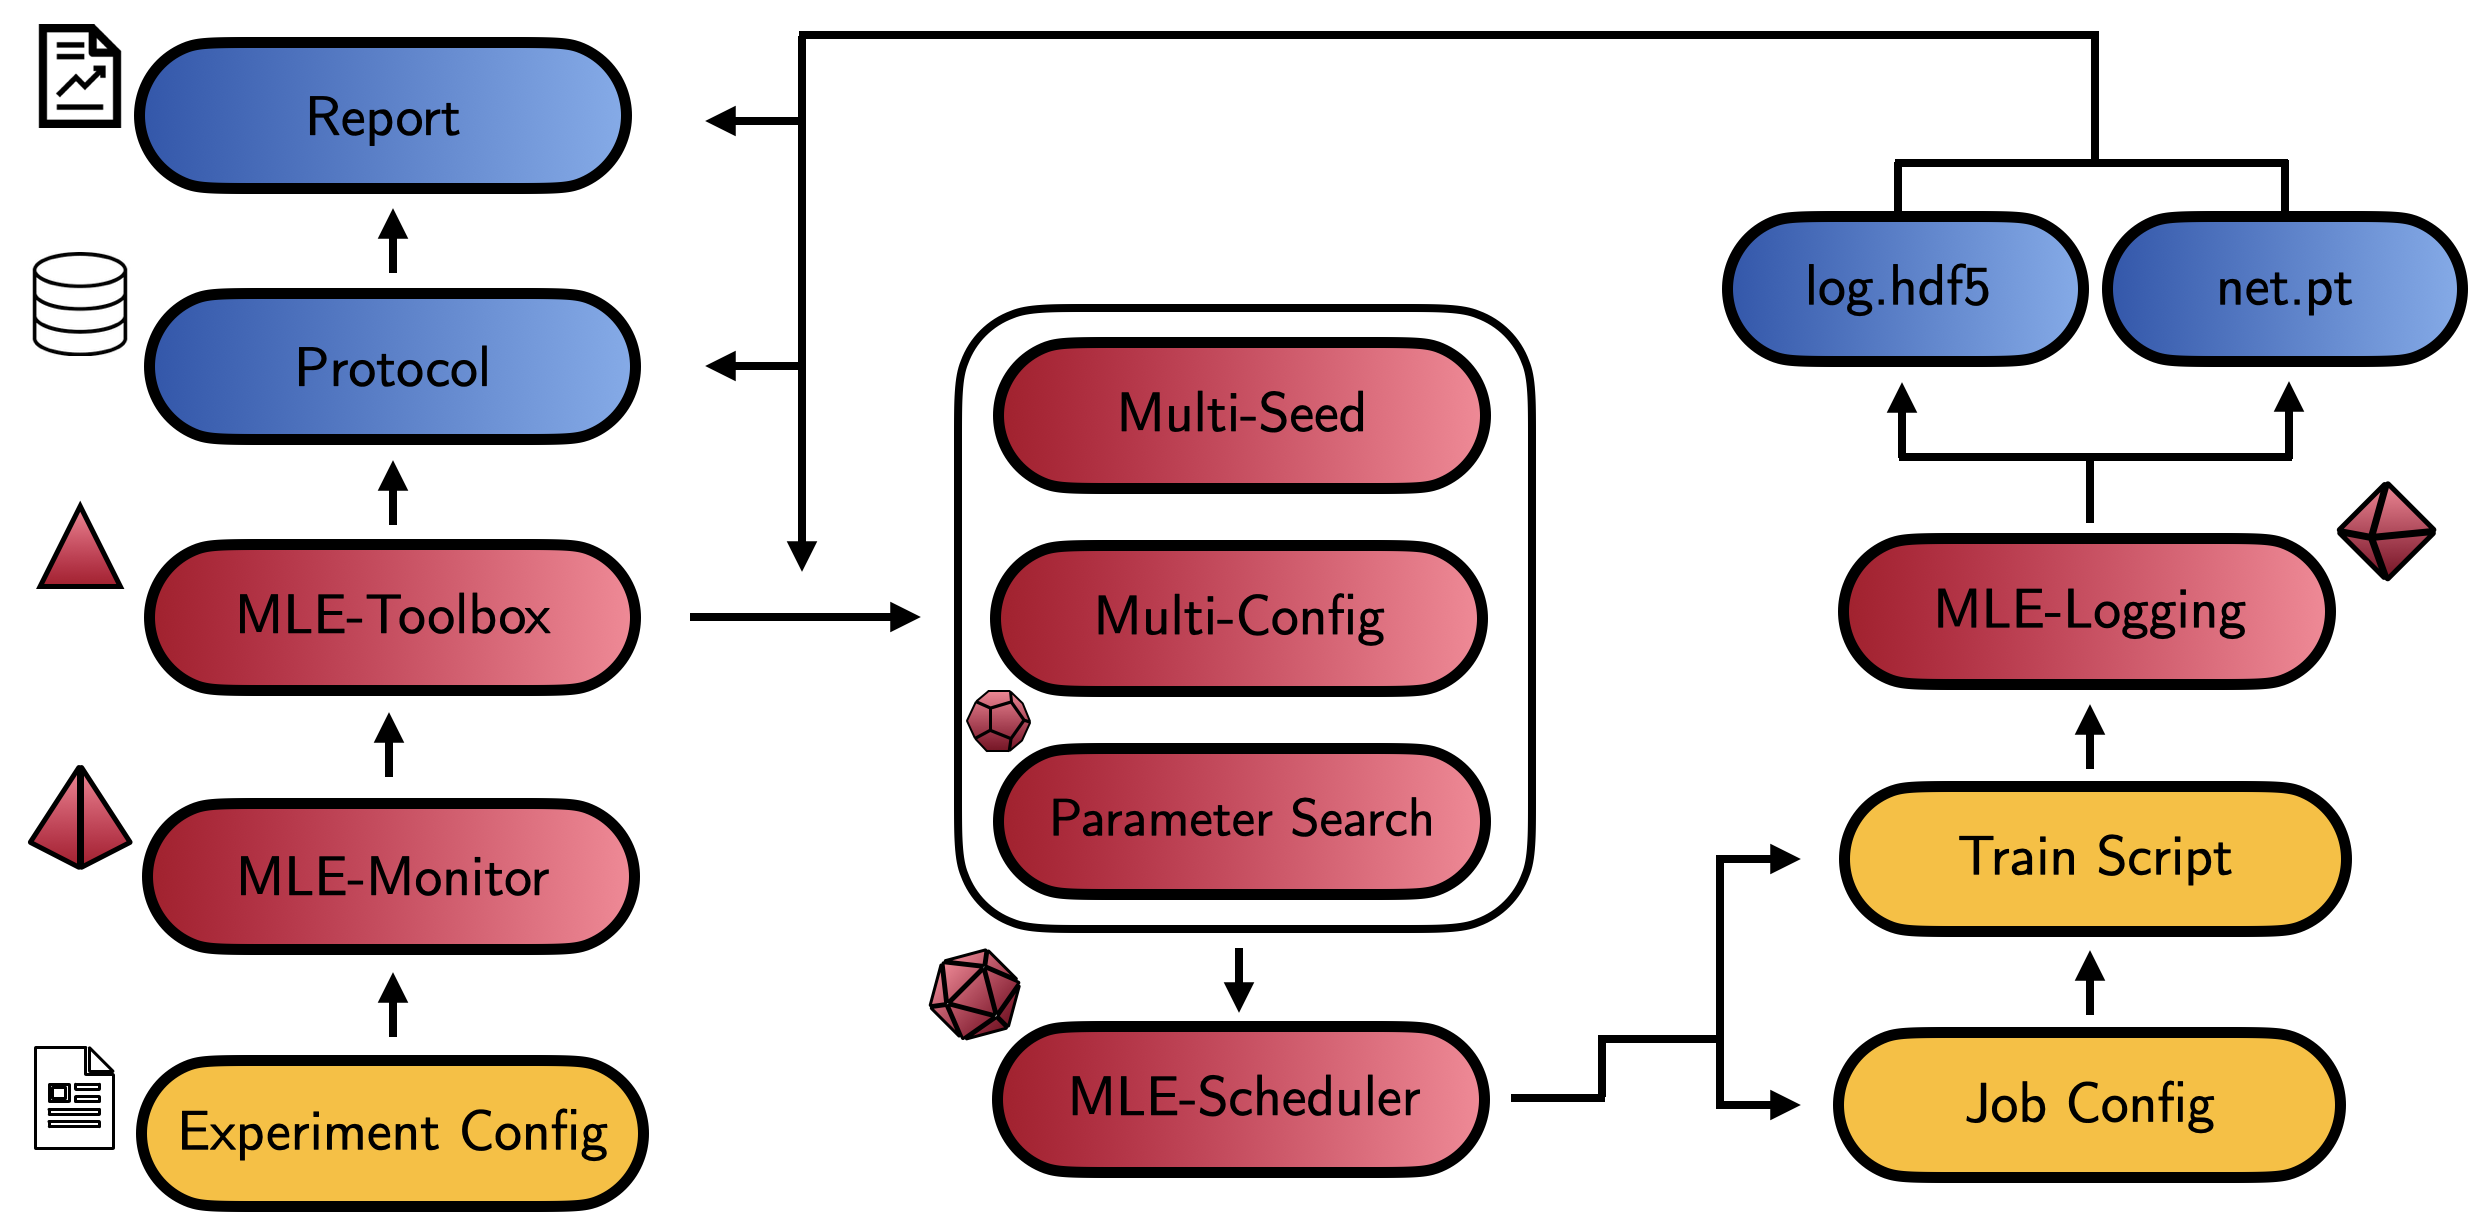
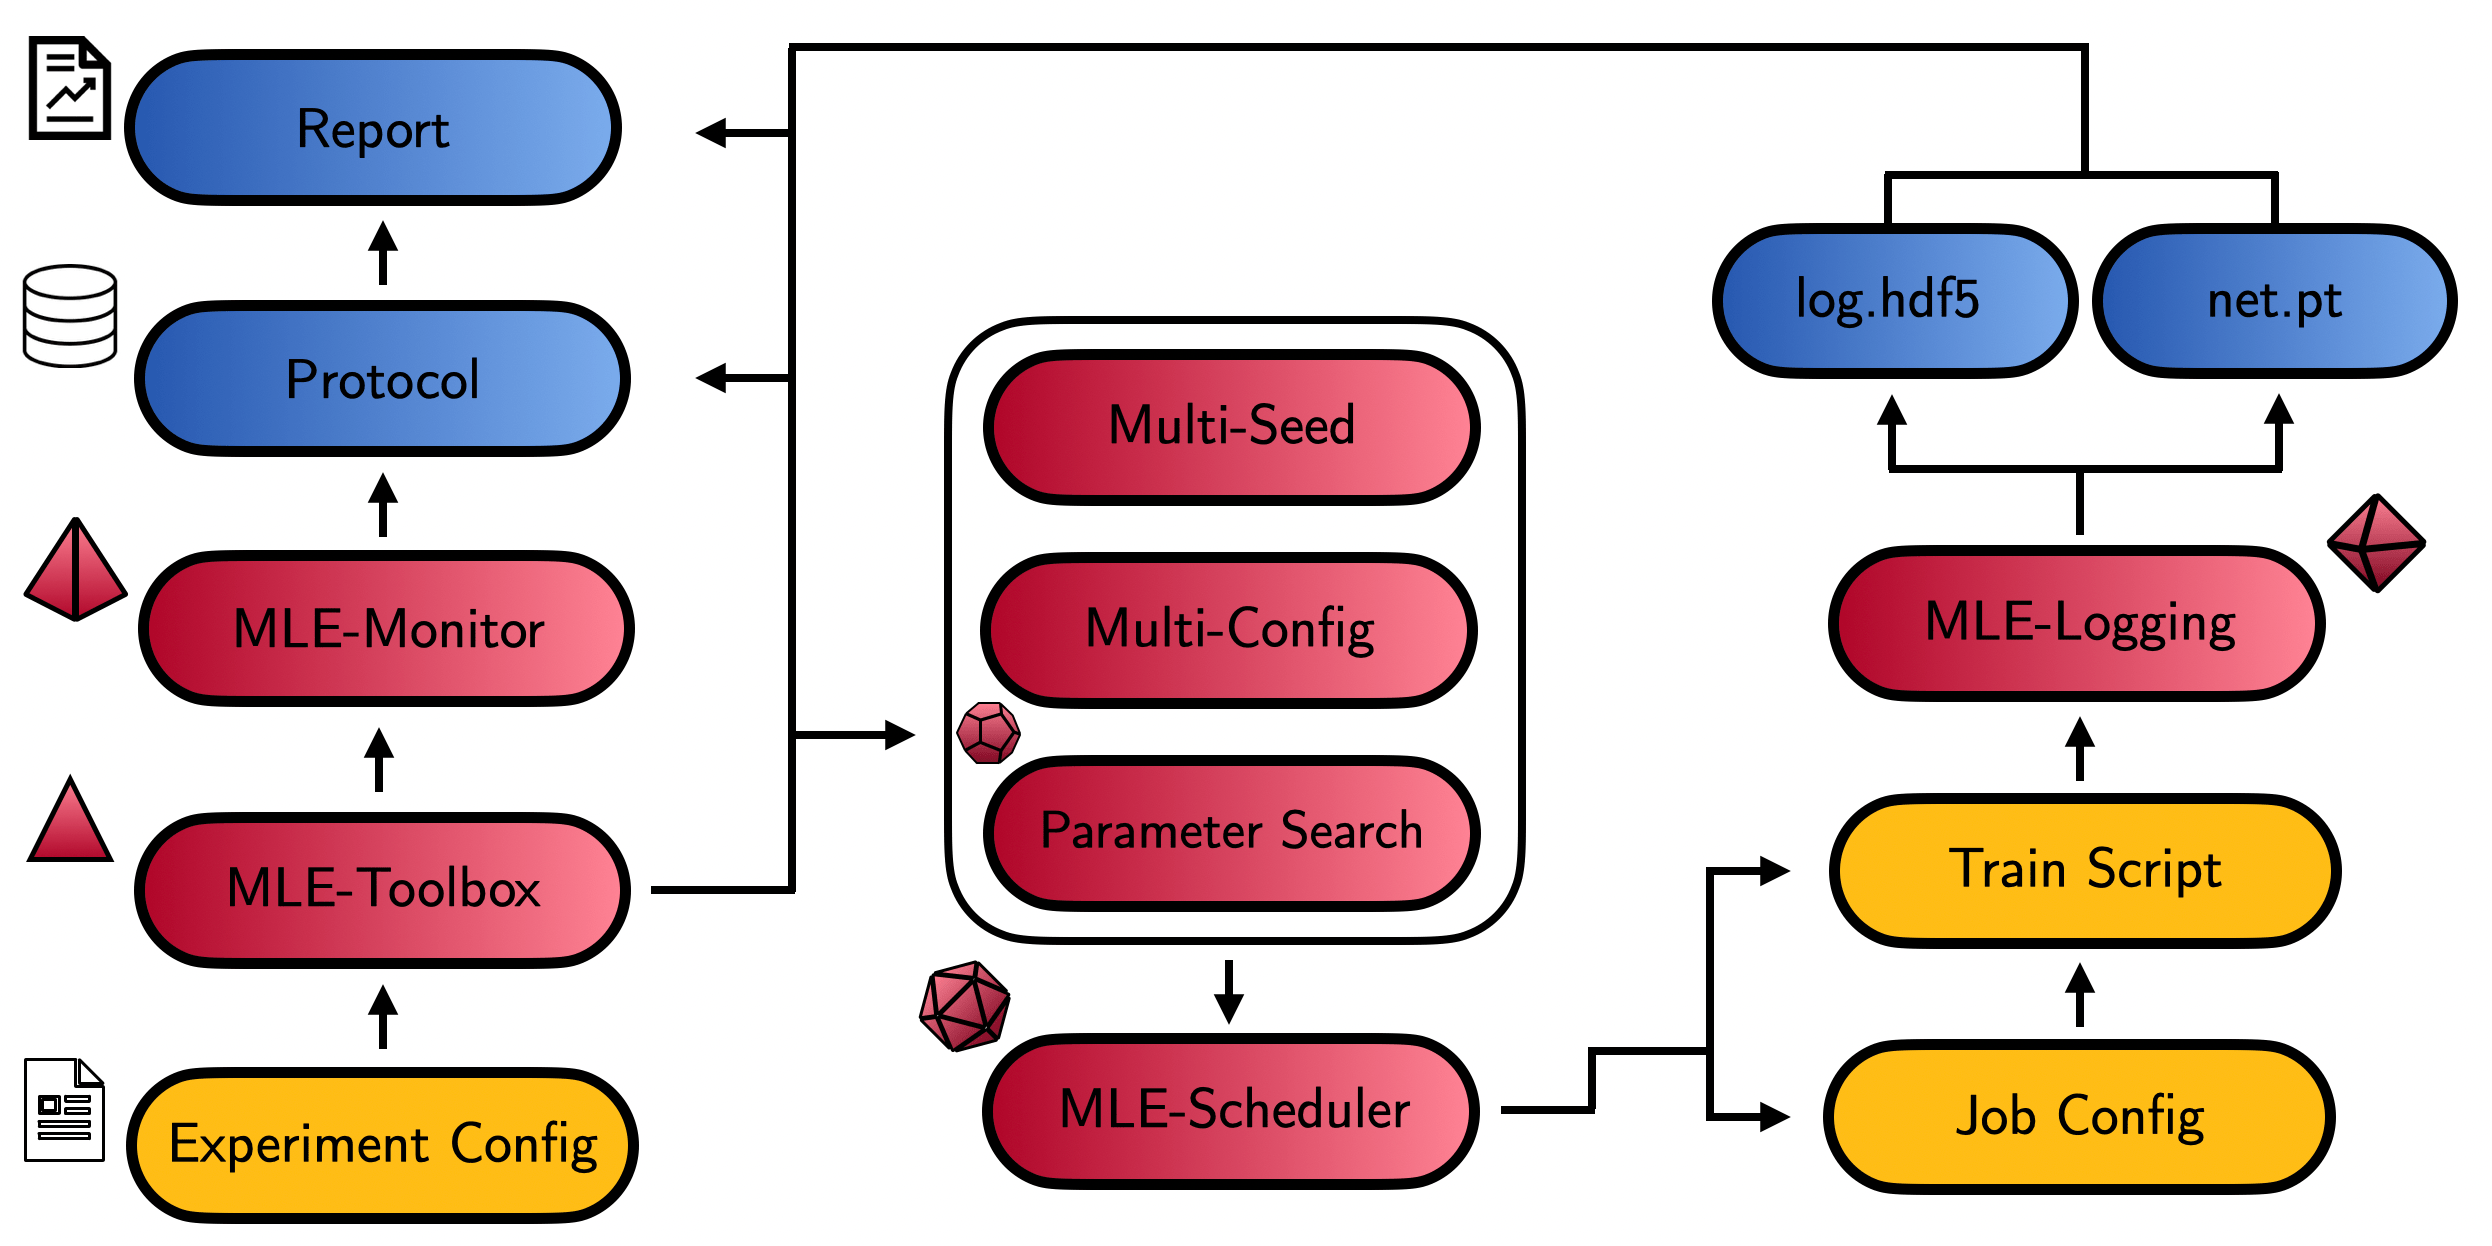
Add gif & minor updates

diff --git a/mle_toolbox/utils/core_experiment.py b/mle_toolbox/utils/core_experiment.py
@@ -2,13 +2,12 @@ import os
 import argparse
 import random
 import numpy as np
-import platform
-import re
 import sys
 import select
 from typing import Union, Tuple
 from dotmap import DotMap
 from datetime import datetime
+import subprocess as sp
 from mle_logging import load_config
 from .core_files_load import load_mle_toolbox_config
 from .helpers import print_framed
@@ -332,23 +331,18 @@ def ask_for_binary_input(question: str, default_answer: str = "N"):
 
 
 def determine_resource() -> str:
-    """Check if cluster (sge/slurm) is available."""
-    # TODO: Try running qstat or squeue commands - if one succeeds we know where we are
-    hostname = platform.node()
-    on_sge_cluster = any(
-        re.match(line, hostname) for line in mle_config.sge.info.node_reg_exp
-    )
-    on_slurm_cluster = any(
-        re.match(line, hostname) for line in mle_config.slurm.info.node_reg_exp
-    )
-    on_sge_head = hostname in mle_config.sge.info.head_names
-    on_slurm_head = hostname in mle_config.slurm.info.head_names
-    if on_sge_head or on_sge_cluster:
+    """Check if cluster (sge/slurm) is available - otherwise local."""
+    try:
+        sp.check_output(["qstat"])
         return "sge-cluster"
-    elif on_slurm_head or on_slurm_cluster:
+    except Exception:
+        pass
+
+    try:
+        sp.check_output(["squeue"])
         return "slurm-cluster"
-    else:
-        return hostname
+    except Exception:
+        return "local"
 
 
 def setup_proxy_server():
@@ -357,11 +351,12 @@ def setup_proxy_server():
         os.environ["GOOGLE_APPLICATION_CREDENTIALS"] = os.path.expanduser(
             mle_config.gcp.credentials_path
         )
-    if determine_resource() == "slurm-cluster":
+    resource_name = determine_resource()
+    if resource_name == "slurm-cluster":
         if mle_config.slurm.info.http_proxy != "":
             os.environ["HTTP_PROXY"] = mle_config.slurm.info.http_proxy
             os.environ["HTTPS_PROXY"] = mle_config.slurm.info.https_proxy
-    elif determine_resource() == "sge-cluster":
+    elif resource_name == "sge-cluster":
         if mle_config.sge.info.http_proxy != "":
             os.environ["HTTP_PROXY"] = mle_config.sge.info.http_proxy
             os.environ["HTTPS_PROXY"] = mle_config.sge.info.https_proxy

diff --git a/mle_toolbox/src/monitor.py b/mle_toolbox/src/monitor.py
@@ -10,13 +10,11 @@ def monitor():
     protocol = MLEProtocol(mle_config.general.local_protocol_fname, mle_config.gcp)
     resource_name = determine_resource()
     if resource_name == "sge-cluster":
-        monitor_config = {
-            "queue": mle_config.sge.info.queue,
-            "spare": mle_config.sge.info.spare,
-            "node_ids": mle_config.sge.info.node_ids,
-            "node_reg_exp": mle_config.sge.info.node_reg_exp[0],
-        }
-    elif resource_name in ["slurm-cluster", "gcp-cloud", "local"]:
+        monitor_config = {"queues": mle_config.sge.info.queues}
+    elif resource_name == "slurm-cluster":
+        monitor_config = {"partitions": mle_config.slurm.info.partitions}
+    else:
+        resource_name = "local"
         monitor_config = {}
     resource = MLEResource(resource_name, monitor_config)
     dashboard = MLEDashboard(protocol, resource)

diff --git a/mle_toolbox/hyperopt/hyper_logger.py b/mle_toolbox/hyperopt/hyper_logger.py
@@ -80,7 +80,7 @@ class HyperoptLogger(object):
 
         # Need to account for batch case - log list of dictionaries!
         if not isinstance(params, list):
-            params = list(params)
+            params = [params]
 
         # Define list of vars from meta data to keep also in hyper df
         meta_keys_to_track = [

diff --git a/README.md b/README.md
@@ -1,4 +1,4 @@
-## Lightweight Management of Distributed ML Experiments 🚜
+## Lightweight Management of Distributed ML Experiments 🛠
 [![Pyversions](https://img.shields.io/pypi/pyversions/mle-toolbox.svg?style=flat-square)](https://pypi.python.org/pypi/mle-toolbox)
 [![Docs Latest](https://img.shields.io/badge/docs-dev-blue.svg)](https://roberttlange.github.io/mle-toolbox/)
 [![PyPI version](https://badge.fury.io/py/mle-toolbox.svg)](https://badge.fury.io/py/mle-toolbox)
@@ -9,9 +9,9 @@
 > Coming up with the right hypothesis is hard - testing it should be easy.
 <a href="https://roberttlange.github.io/mle-infrastructure/images/logos/toolbox.png"><img src="https://roberttlange.github.io/mle-infrastructure/images/logos/toolbox.png" width="200" align="right" /></a>
 
-ML researchers need to coordinate different types of experiments on separate remote resources. The *Machine Learning Experiment (MLE)-Toolbox* is designed to facilitate the workflow by providing a simple interface, standardized logging, many common ML experiment types (multi-seed/configurations, grid-searches and hyperparameter optimization pipelines). You can run experiments on your local machine, high-performance compute clusters ([Slurm](https://slurm.schedmd.com/overview.html) and [Sun Grid Engine](http://bioinformatics.mdc-berlin.de/intro2UnixandSGE/sun_grid_engine_for_beginners/README.html)) as well as on cloud VMs ([GCP](https://cloud.google.com/gcp/)). The results are archived (locally/[GCS bucket](https://cloud.google.com/products/storage/)) and can easily be retrieved or automatically summarized/reported as `.md`/`.html` files.
+ML researchers need to coordinate different types of experiments on separate remote resources. The *Machine Learning Experiment (MLE)-Toolbox* is designed to facilitate the workflow by providing a simple interface, standardized logging, many common ML experiment types (multi-seed/configurations, grid-searches and hyperparameter optimization pipelines). You can run experiments on your local machine, high-performance compute clusters ([Slurm](https://slurm.schedmd.com/overview.html) and [Sun Grid Engine](http://bioinformatics.mdc-berlin.de/intro2UnixandSGE/sun_grid_engine_for_beginners/README.html)) as well as on cloud VMs ([GCP](https://cloud.google.com/gcp/)). The results are archived (locally/[GCS bucket](https://cloud.google.com/products/storage/)) and can easily be retrieved or automatically summarized/reported.
 
-![](https://github.com/mle-infrastructure/mle-toolbox/blob/main/docs/mle_toolbox_structure.png?raw=true)
+![](https://github.com/mle-infrastructure/mle-toolbox/blob/main/docs/mle_run.gif?raw=true)
 
 ## What Does The `mle-toolbox` Provide?
 
@@ -24,6 +24,7 @@ ML researchers need to coordinate different types of experiments on separate rem
 4. Storage of results and database in Google Cloud Storage Bucket.
 5. Resource monitoring with dashboard visualization.
 
+![](https://github.com/mle-infrastructure/mle-toolbox/blob/main/docs/mle_toolbox_structure.png?raw=true)
 
 ## The 4 Step `mle-toolbox` Cooking Recipe 🍲
 
